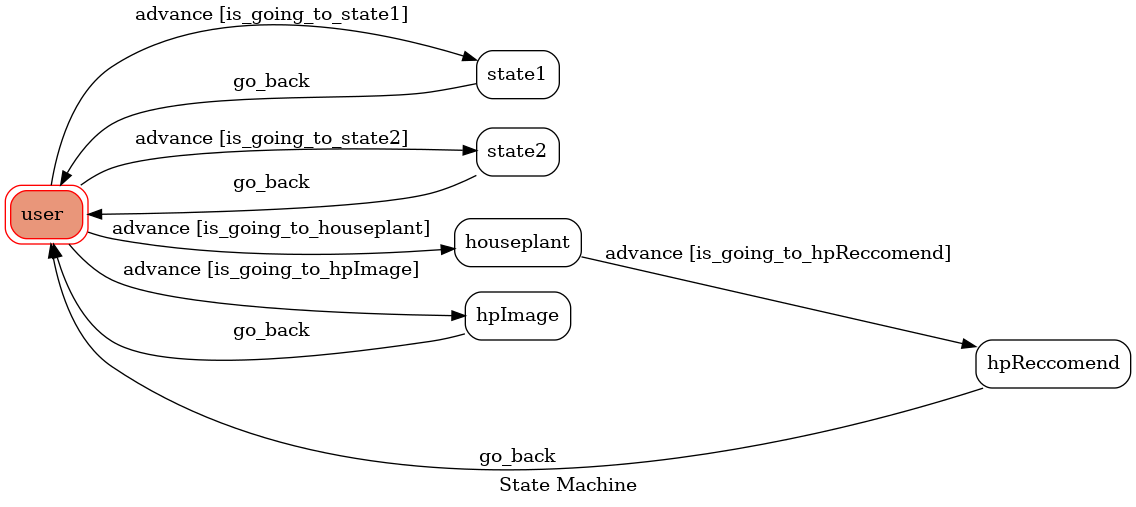
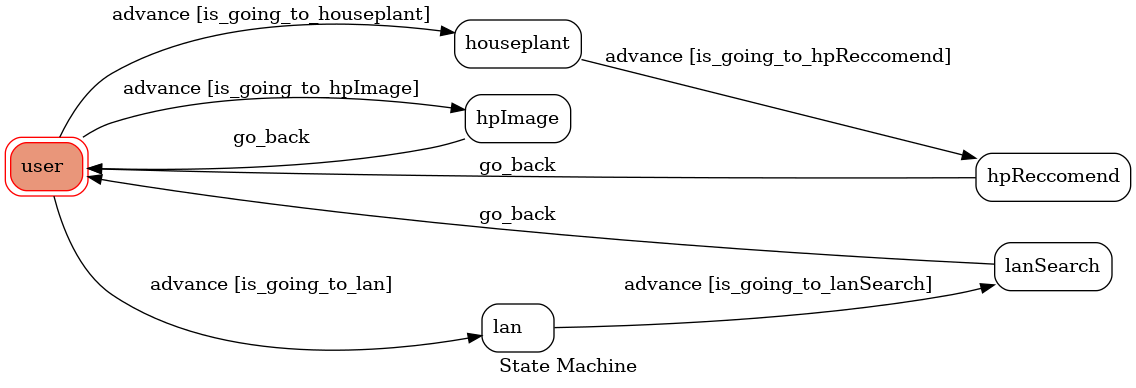
Added web crawler

diff --git a/fsm.py b/fsm.py
@@ -2,38 +2,13 @@ from transitions.extensions import GraphMachine
 
 from utils import send_text_message, send_image_message
 
+from bs4 import BeautifulSoup
+import requests
+import pandas as pd
 
 class TocMachine(GraphMachine):
     def __init__(self, **machine_configs):
         self.machine = GraphMachine(model=self, **machine_configs)
-
-    def is_going_to_state1(self, event):
-        text = event.message.text
-        return text.lower() == "go to state1"
-
-    def is_going_to_state2(self, event):
-        text = event.message.text
-        return text.lower() == "go to state2"
-
-    def on_enter_state1(self, event):
-        print("I'm entering state1")
-
-        reply_token = event.reply_token
-        send_text_message(reply_token, "Trigger state1")
-        self.go_back()
-
-    def on_exit_state1(self):
-        print("Leaving state1")
-
-    def on_enter_state2(self, event):
-        print("I'm entering state2")
-
-        reply_token = event.reply_token
-        send_text_message(reply_token, "Trigger state2")
-        self.go_back()
-
-    def on_exit_state2(self):
-        print("Leaving state2")
 
     def is_going_to_houseplant(self, event):
         text = event.message.text
@@ -61,4 +36,38 @@ class TocMachine(GraphMachine):
 
     def on_enter_hpImage(self, event):
         send_image_message(event.reply_token, "https://images.unsplash.com/photo-1599009944997-3544a939813c?ixlib=rb-4.0.3&ixid=MnwxMjA3fDB8MHxzZWFyY2h8NXx8c25ha2UlMjBwbGFudHxlbnwwfHwwfHw%3D&auto=format&fit=crop&w=500&q=60")
+        self.go_back()
+
+    def is_going_to_lan(self, event):
+        text = event.message.text
+        return text == "花語" 
+
+    def on_enter_lan(self, event):
+        send_text_message(event.reply_token, '請輸入花的名稱')
+    
+    def is_going_to_lanSearch(self, event):
+        return True
+
+    def on_enter_lanSearch(self, event):
+        # web crawling
+        url = 'https://silviayellow.pixnet.net/blog/post/354111760-%E8%8A%B1%E8%AA%9E%E5%A4%A7%E5%85%A8%EF%BD%9C%E8%8A%B1%E8%AA%9E%E7%A5%9D%E7%A6%8F%EF%BD%9C%E7%89%B9%E5%88%A5%E7%9A%84%E8%8A%B1%E8%AA%9E%EF%BD%9C533%E7%A8%AE%E8%8A%B1%E7%9A%84'
+        re = requests.get(url)
+        re.encoding = 'utf-8'
+        soup = BeautifulSoup(re.text, 'lxml')
+        flowers = []
+        lans = []
+        t = soup.find('table').tbody.find_all('tr')
+        for i in t:
+            flowers.append(i.find_all('td')[1].text)
+            lans.append(i.find_all('td')[3].text)
+        dic = {"Flowers":flowers, "Language": lans}
+        df = pd.DataFrame(dic)
+        found = False #flag
+        s = event.message.text
+        for i in range(len(df.index)):
+            if df.Flowers[i] == s or df.Flowers[i] == s[:-1] or df.Flowers[i] == s+"花":
+                found = True
+                send_text_message(event.reply_token, df.Language[i])
+        if not found:
+            send_text_message(event.reply_token, "抱歉查無資料:(")
         self.go_back()

diff --git a/app.py b/app.py
@@ -14,14 +14,14 @@ load_dotenv()
 
 
 machine = TocMachine(
-    states=["user", "state1", "state2", "houseplant", "hpReccomend", "hpImage"],
+    states=["user", "houseplant", "hpReccomend", "hpImage", "lan", "lanSearch"],
     transitions=[
-        { "trigger": "advance", "source": "user", "dest": "state1", "conditions": "is_going_to_state1", },
-        { "trigger": "advance", "source": "user", "dest": "state2", "conditions": "is_going_to_state2",},
         { "trigger": "advance", "source": "user", "dest": "houseplant", "conditions": "is_going_to_houseplant",},
         { "trigger": "advance", "source": "houseplant", "dest": "hpReccomend", "conditions": "is_going_to_hpReccomend",},
         { "trigger": "advance", "source": "user", "dest": "hpImage", "conditions": "is_going_to_hpImage",},
-        { "trigger": "go_back", "source": ["state1", "state2", "hpReccomend", "hpImage"], "dest": "user"},
+        { "trigger": "advance", "source": "user", "dest": "lan", "conditions": "is_going_to_lan",},
+        { "trigger": "advance", "source": "lan", "dest": "lanSearch", "conditions": "is_going_to_lanSearch",},
+        { "trigger": "go_back", "source": ["hpReccomend", "hpImage", "lanSearch"], "dest": "user"},
     ],
     initial="user",
     auto_transitions=False,
@@ -44,7 +44,7 @@ if channel_access_token is None:
 line_bot_api = LineBotApi(channel_access_token)
 parser = WebhookParser(channel_secret)
 
-base_url = "https://4750-140-116-121-18.jp.ngrok.io"
+base_url = "https://ee26-140-116-121-18.jp.ngrok.io"
 
 @app.route("/callback", methods=["POST"])
 def callback():

diff --git a/README.md b/README.md
@@ -1,4 +1,7 @@
 /home/os2022/HW/TOC-Project-2020-master
 
+start virtual environment
+```
 pipenv shell
+```
 ngrok http 8000
